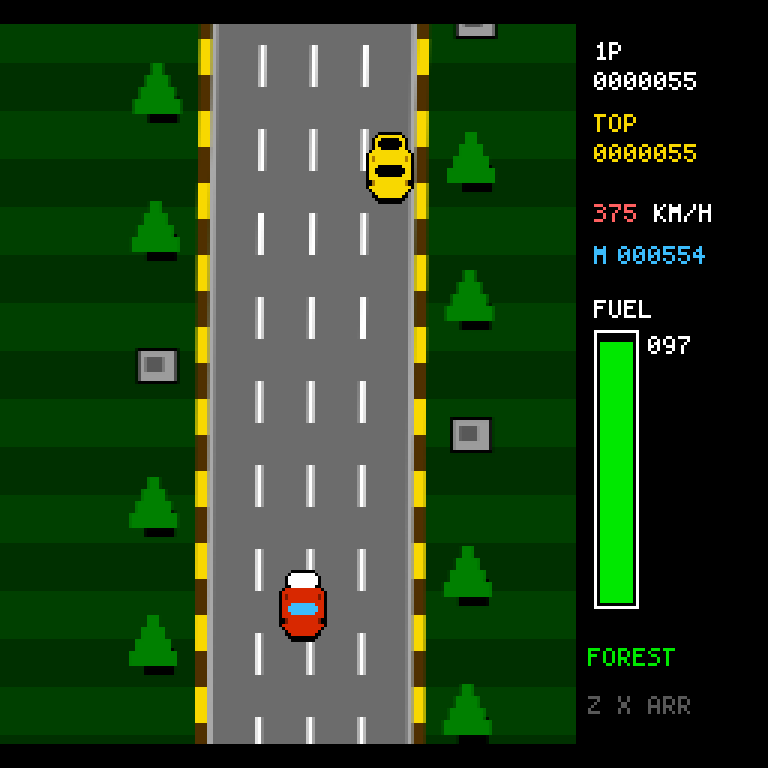
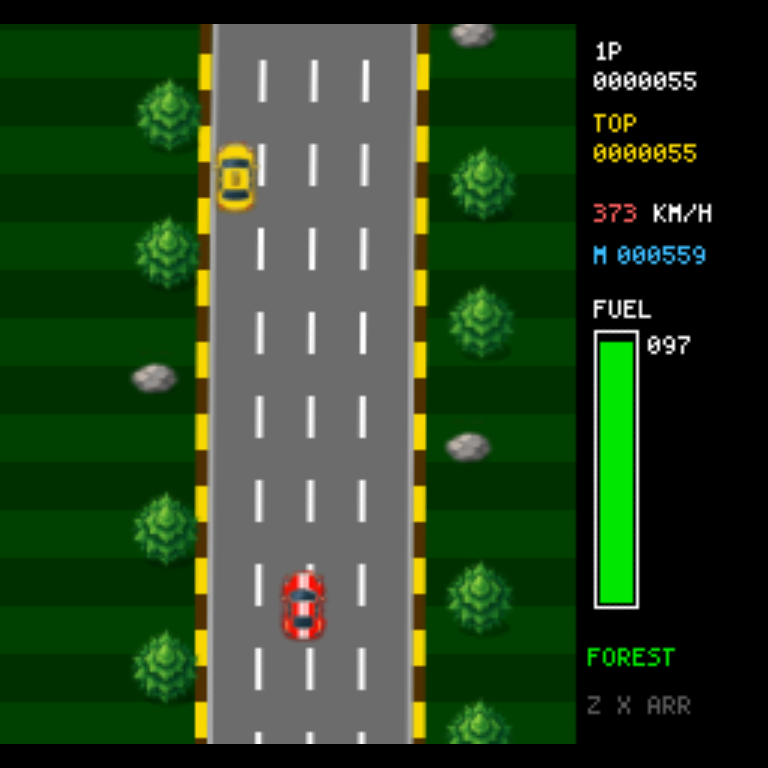
Update README and screenshots for the new art
Rewrites the implementation notes that described the old ASCII-grid sprites,
documents how to re-cut the art from its source sheets, and records why
RENDER_SCALE stays at 1 so the next person does not rediscover the frame-rate
cliff the hard way.

Screenshots regenerated from the running game.

diff --git a/README.md b/README.md
@@ -162,7 +162,7 @@ not on frame rate.
 | `src/road.ts` | Road geometry as a function of distance |
 | `src/render.ts` | Paints the 256×240 field and its scenery |
 | `src/display.ts` | Babylon layer — pixel canvas onto a fullscreen quad |
-| `src/sprites.ts` | ASCII-grid pixel art compiled to canvases |
+| `src/sprites.ts` | Loads sprite PNGs and declares their draw sizes |
 | `src/font.ts` | 4×6 bitmap font |
 | `src/hud.ts` | Gauges and every menu screen |
 | `src/scores.ts` | The `localStorage` top ten |
@@ -171,14 +171,25 @@ not on frame rate.
 
 ## Implementation notes
 
-**No binary assets.** Every sprite is an ASCII grid painted pixel by pixel onto
-a canvas, all text uses a hand-built 4×6 bitmap font, and every sound is
-synthesized through WebAudio at runtime. The repository contains no images and
-no audio files.
+**Sprite art, with a fallback.** Vehicles, hazards and roadside props are PNGs
+under `public/sprites/`, generated with sprite-gen and sliced out of two grid
+sheets kept in `tools/sheets/`. Art is optional: every sprite falls back to a
+drawn placeholder, so a missing or still-loading file never blanks the game.
+Text still uses the hand-built 4×6 bitmap font and every sound is still
+synthesized through WebAudio, so there are no font or audio files.
+
+**Draw sizes are gameplay, not decoration.** Each sprite declares its size in
+view units in `src/sprites.ts`, matched to the pixel grids it replaced. The
+collision boxes in `src/config.ts` were tuned against those dimensions, so
+drawing wider art turns glancing contacts into head-on hits — the mechanics
+test catches exactly that.
 
 **Pixel-exact rendering.** The game paints a single 256×240 canvas, which
-Babylon uploads as a nearest-neighbour texture on a fullscreen orthographic
-quad. The result stays sharp and correctly proportioned at any window size.
+Babylon uploads onto a fullscreen orthographic quad. The result stays
+correctly proportioned at any window size. `RENDER_SCALE` in `src/config.ts`
+can rasterise that field more finely, but its cost is quadratic: measured here
+it took the game from ~47fps to ~20fps at 4×, slow enough that the crash state
+machine skipped its skid phase. Raise it only alongside a capture run.
 
 **The road is a function, not a list.** Its centre and width are computed
 directly from distance, so any point on the infinite course can be evaluated on
@@ -193,6 +204,18 @@ the passability test exercises.
 **Generous hitboxes.** Collision boxes are deliberately smaller than the
 sprites — roughly two thirds of the player's width — so threading a gap at
 400 km/h feels tight but never cheap.
+
+## Regenerating the art
+
+```bash
+# Slice a generated grid sheet into per-sprite PNGs, in reading order.
+~/.claude/skills/sprite-gen/.venv/bin/python3 tools/slice-sheet.py \
+  tools/sheets/vehicles-4x4.png player,yellow,blue,cyan,truck,fuel,oil,puddle,\
+rock,explosion0,explosion1,explosion2,explosion3,explosion4,tree,flag
+```
+
+Generating a whole grid in one pass is far faster than one call per sprite and
+keeps the style consistent, since every icon is drawn together.
 
 ## Credit
 
